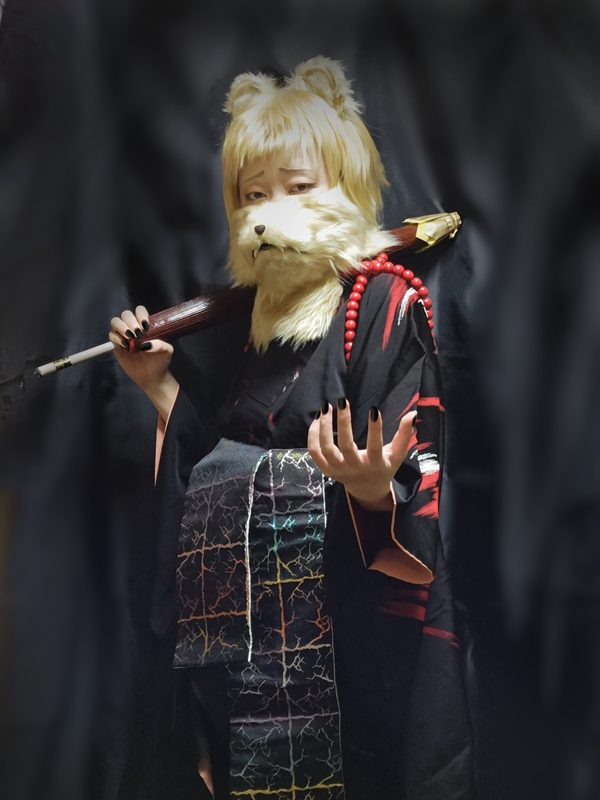
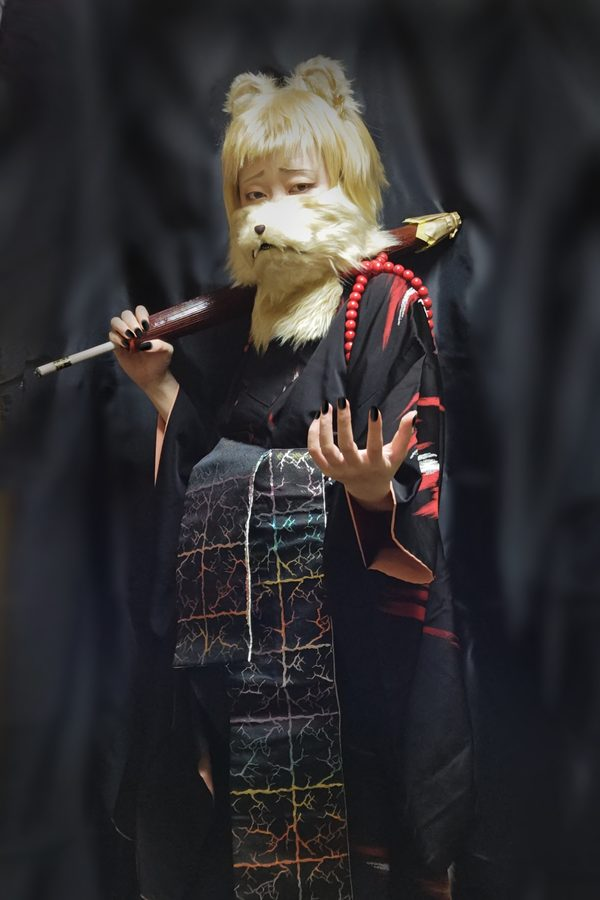
Add photos for all ten 黄泉十怪 cards
Thumbnails are now 2:3 so tall cards crop less of each figure.

diff --git a/index.html b/index.html
@@ -1277,7 +1277,7 @@
         </div>
       </div>
       <div class="yomi-card">
-        <div class="yomi-photo yomi-photo-empty">写真準備中</div>
+        <a class="yomi-photo" href="static/images/yomotsu/himetsuru.jpg"><img src="static/images/yomotsu/himetsuru-thumb.jpg" loading="lazy" alt="秘鶴の姿"></a>
         <div class="yomi-body">
           <div class="yomi-name">秘鶴</div>
           <div class="yomi-kana">ひめつる</div>
@@ -1286,7 +1286,7 @@
         </div>
       </div>
       <div class="yomi-card">
-        <div class="yomi-photo yomi-photo-empty">写真準備中</div>
+        <a class="yomi-photo" href="static/images/yomotsu/benikingyo.jpg"><img src="static/images/yomotsu/benikingyo-thumb.jpg" loading="lazy" alt="紅金魚の姿"></a>
         <div class="yomi-body">
           <div class="yomi-name">紅金魚</div>
           <div class="yomi-kana">べにきんぎょ</div>
@@ -1294,7 +1294,7 @@
         </div>
       </div>
       <div class="yomi-card">
-        <div class="yomi-photo yomi-photo-empty">写真準備中</div>
+        <a class="yomi-photo" href="static/images/yomotsu/ichirota.jpg"><img src="static/images/yomotsu/ichirota-thumb.jpg" loading="lazy" alt="一郎太 獄門の姿"></a>
         <div class="yomi-body">
           <div class="yomi-name">一郎太 獄門</div>
           <div class="yomi-kana">いちろうた ごくもん</div>
@@ -1303,7 +1303,7 @@
         </div>
       </div>
       <div class="yomi-card">
-        <div class="yomi-photo yomi-photo-empty">写真準備中</div>
+        <a class="yomi-photo" href="static/images/yomotsu/shirojima.jpg"><img src="static/images/yomotsu/shirojima-thumb.jpg" loading="lazy" alt="白島の姿"></a>
         <div class="yomi-body">
           <div class="yomi-name">白島</div>
           <div class="yomi-kana">しろじま</div>
@@ -1312,7 +1312,7 @@
         </div>
       </div>
       <div class="yomi-card">
-        <div class="yomi-photo yomi-photo-empty">写真準備中</div>
+        <a class="yomi-photo" href="static/images/yomotsu/honeonna.jpg"><img src="static/images/yomotsu/honeonna-thumb.jpg" loading="lazy" alt="骨女の姿"></a>
         <div class="yomi-body">
           <div class="yomi-name">骨女</div>
           <div class="yomi-kana">ほねおんな</div>
@@ -1321,7 +1321,7 @@
         </div>
       </div>
       <div class="yomi-card">
-        <div class="yomi-photo yomi-photo-empty">写真準備中</div>
+        <a class="yomi-photo" href="static/images/yomotsu/urami.jpg"><img src="static/images/yomotsu/urami-thumb.jpg" loading="lazy" alt="うらみの姿"></a>
         <div class="yomi-body">
           <div class="yomi-name">うらみ</div>
           <div class="yomi-meta">狐の妖怪　演：おとろ</div>
@@ -1329,7 +1329,7 @@
         </div>
       </div>
       <div class="yomi-card">
-        <div class="yomi-photo yomi-photo-empty">写真準備中</div>
+        <a class="yomi-photo" href="static/images/yomotsu/sunekosuri.jpg"><img src="static/images/yomotsu/sunekosuri-thumb.jpg" loading="lazy" alt="すねこすりの姿"></a>
         <div class="yomi-body">
           <div class="yomi-name">すねこすり</div>
           <div class="yomi-meta">演：シスイ</div>
@@ -1337,7 +1337,7 @@
         </div>
       </div>
       <div class="yomi-card">
-        <div class="yomi-photo yomi-photo-empty">写真準備中</div>
+        <a class="yomi-photo" href="static/images/yomotsu/kiyocchi.jpg"><img src="static/images/yomotsu/kiyocchi-thumb.jpg" loading="lazy" alt="きよっちの姿"></a>
         <div class="yomi-body">
           <div class="yomi-name">きよっち</div>
           <div class="yomi-meta">演：みちざね</div>
@@ -1345,7 +1345,7 @@
         </div>
       </div>
       <div class="yomi-card">
-        <div class="yomi-photo yomi-photo-empty">写真準備中</div>
+        <a class="yomi-photo" href="static/images/yomotsu/ushioni.jpg"><img src="static/images/yomotsu/ushioni-thumb.jpg" loading="lazy" alt="牛鬼の姿"></a>
         <div class="yomi-body">
           <div class="yomi-name">牛鬼</div>
           <div class="yomi-kana">うしおに</div>
